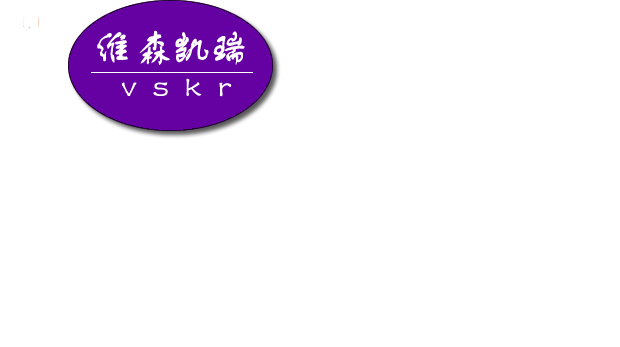
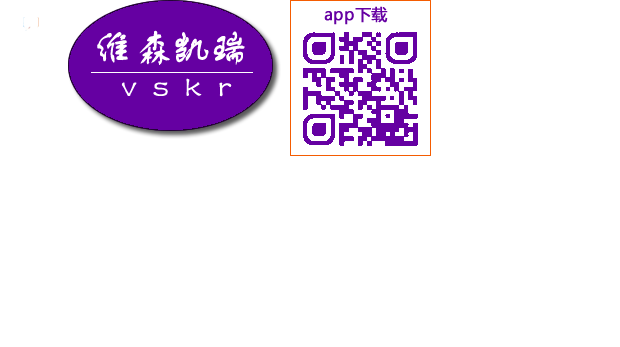
布局练习

Changed region(s): [[0.4597, 0.0, 0.6742, 0.4323], [0.6742, 0.0, 0.7048, 0.0288], [0.4597, 0.0, 0.4903, 0.0288]]

diff --git a/layout-1/i.css b/layout-1/i.css
@@ -1,3 +1,6 @@
+html{
+    background-color:#FF7E31;
+}
 body {
     padding: 0;
     margin: 0;
@@ -18,7 +21,7 @@ a{
 
 header {
     width: 100%;
-    height: 400px;
+    height: 261px;
     background-color: #FF7E31;
 }
 
@@ -95,6 +98,11 @@ header .title .message .icon{
     margin:0 auto;
     padding-top:25px;
 }
+.main:after{
+    content:" ";
+    clear:both;
+    display:block;
+}
 .main .logo{
     width: 211px;
     height: 138px;
@@ -102,12 +110,83 @@ header .title .message .icon{
     float:left;
 }
 .search-container{
-    width: 400px;
-    height:auto;
-    float:left;
+    width: 500px;
+    height: 70px;
+    float: left;
+    margin-left: 110px;
+    margin-top: 8px;
+}
+.search-container > div{
+    width:100%;
+    height:40%;
+}
+.search-container > div:nth-child(2){
+    border:#6500A2 3px solid;
+    height:60%;
+}
+.tab-title:hover{
+    background-color:#D999FF;
 }
 .tab-title{
     width:50px;
-    height:25px;
+    height:100%;
     float:left;
+    color:#6500A2;
+    cursor:pointer;
+    text-align:center;
+    line-height:2;
+    font-size:14px;
+}
+.tab-title:first-child{
+    background-color:#6500A2;
+    color:#fff;
+}
+.search-container .search{
+    border:none;
+    height:100%;
+    display:block;
+    background-color:#FF7E31;
+    float:left;
+    padding-left:5px;
+    width:380px;
+    font-size:14px;
+}
+.search-container .search:focus{
+    outline:none;
+}
+.search-container .button{
+    display:block;
+    float:right;
+    background-color:#6500A2;
+    border:none;
+    height:100%;
+    color:#fff;
+    width: 113px;
+    cursor:pointer;
+}
+.search-container .button:focus{
+    outline:none;
+}
+.search-container .button:hover{
+    background-color:#6B00AC;
+}
+.app-scan{
+    width:141px;
+    height:156px;
+    float:right;
+    margin:8px 0 0 20px;
+    background: url(images/spirte.png) -290px -0px;
+}
+.content{
+    width:80%;
+    margin:0 auto;
+    height: auto;
+    background-color:#FF7E31;
+}
+.content h1{
+    color:#BF4800;
+}
+.content > .gallery img{
+    width:256px;
+    margin-right:10px;
 }

diff --git a/layout-1/index.html b/layout-1/index.html
@@ -37,21 +37,36 @@
             </div>
             <div class="search-container">
                 <div>
-                    <div class="tab-title"></div>
-                    <div class="tab-title"></div>
-                    <div class="tab-title"></div>
+                    <div class="tab-title">
+                        课程
+                    </div>
+                    <div class="tab-title">
+                        笔记
+                    </div>
+                    <div class="tab-title">
+                        作业
+                    </div>
                 </div>
                 <div>
-                    <input type="text" title="搜索">
-                    <input type="button" title="搜索" value="搜索">
+                    <input type="text" placeholder="请输入关键字"
+                           class="search" title="搜索">
+                    <input type="button" class="button" title="搜索" value="搜索">
                 </div>
+            </div>
+            <div class="app-scan">
             </div>
         </div>
     </header>
-    <div class="item"></div>
+    <div class="content">
+        <h1>欢迎访问维森凯瑞主页</h1>
+        <div class="gallery">
+            <img src="images/a1.jpg" alt="a1">
+            <img src="images/a2.jpg" alt="a1">
+            <img src="images/a3.jpg" alt="a1">
+            <img src="images/a4.jpg" alt="a1">
+        </div>
+    </div>
     <footer></footer>
 </div>
-<hr>
-
 </body>
 </html>
